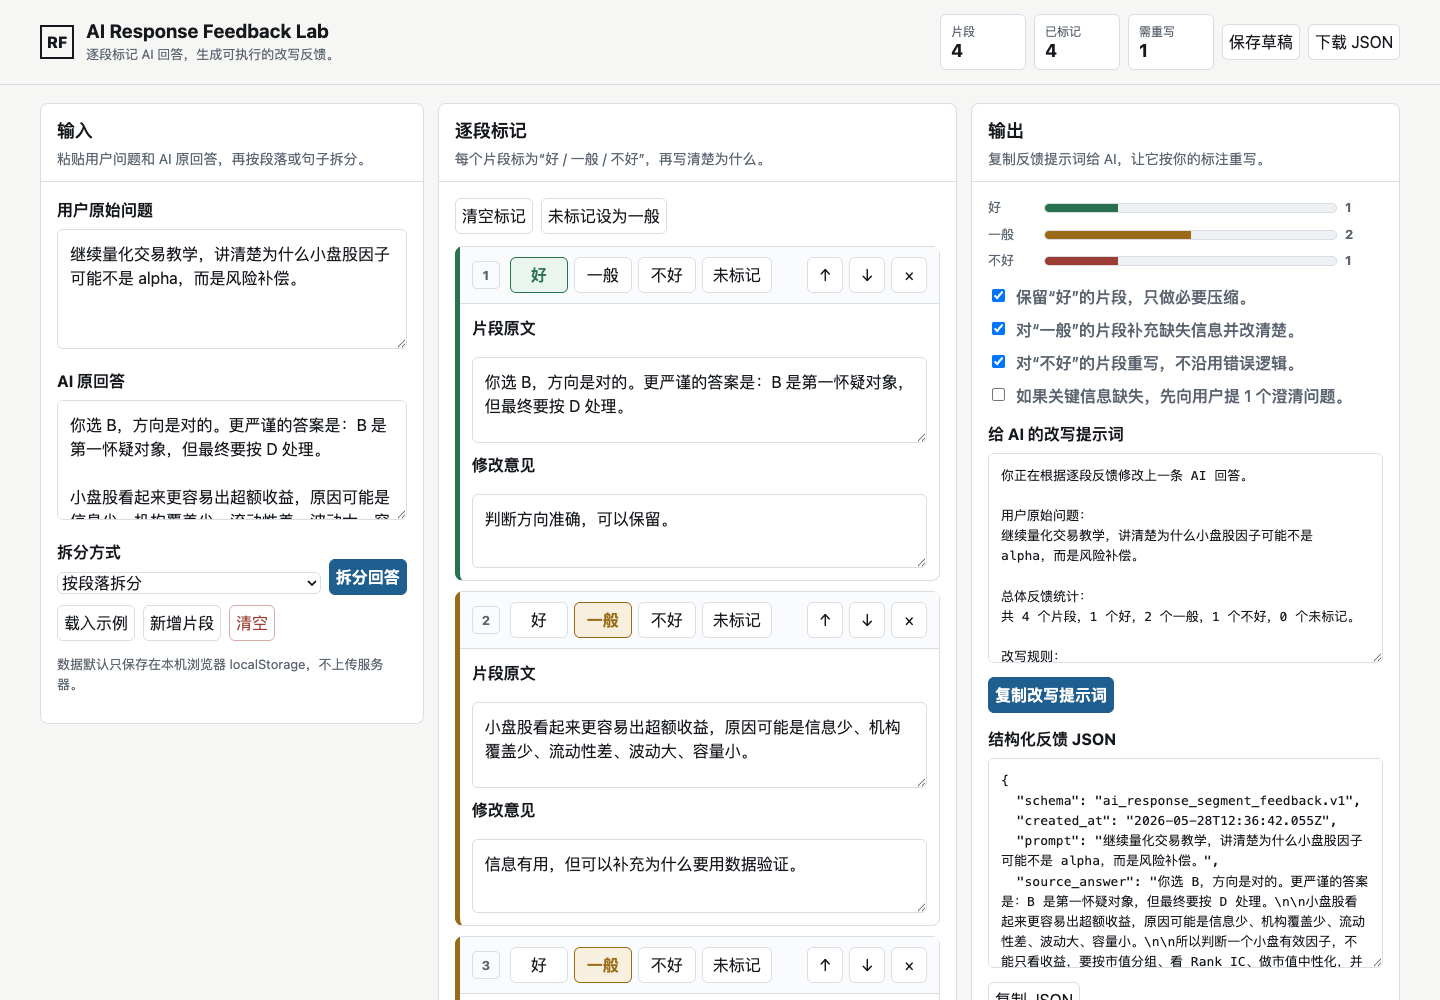
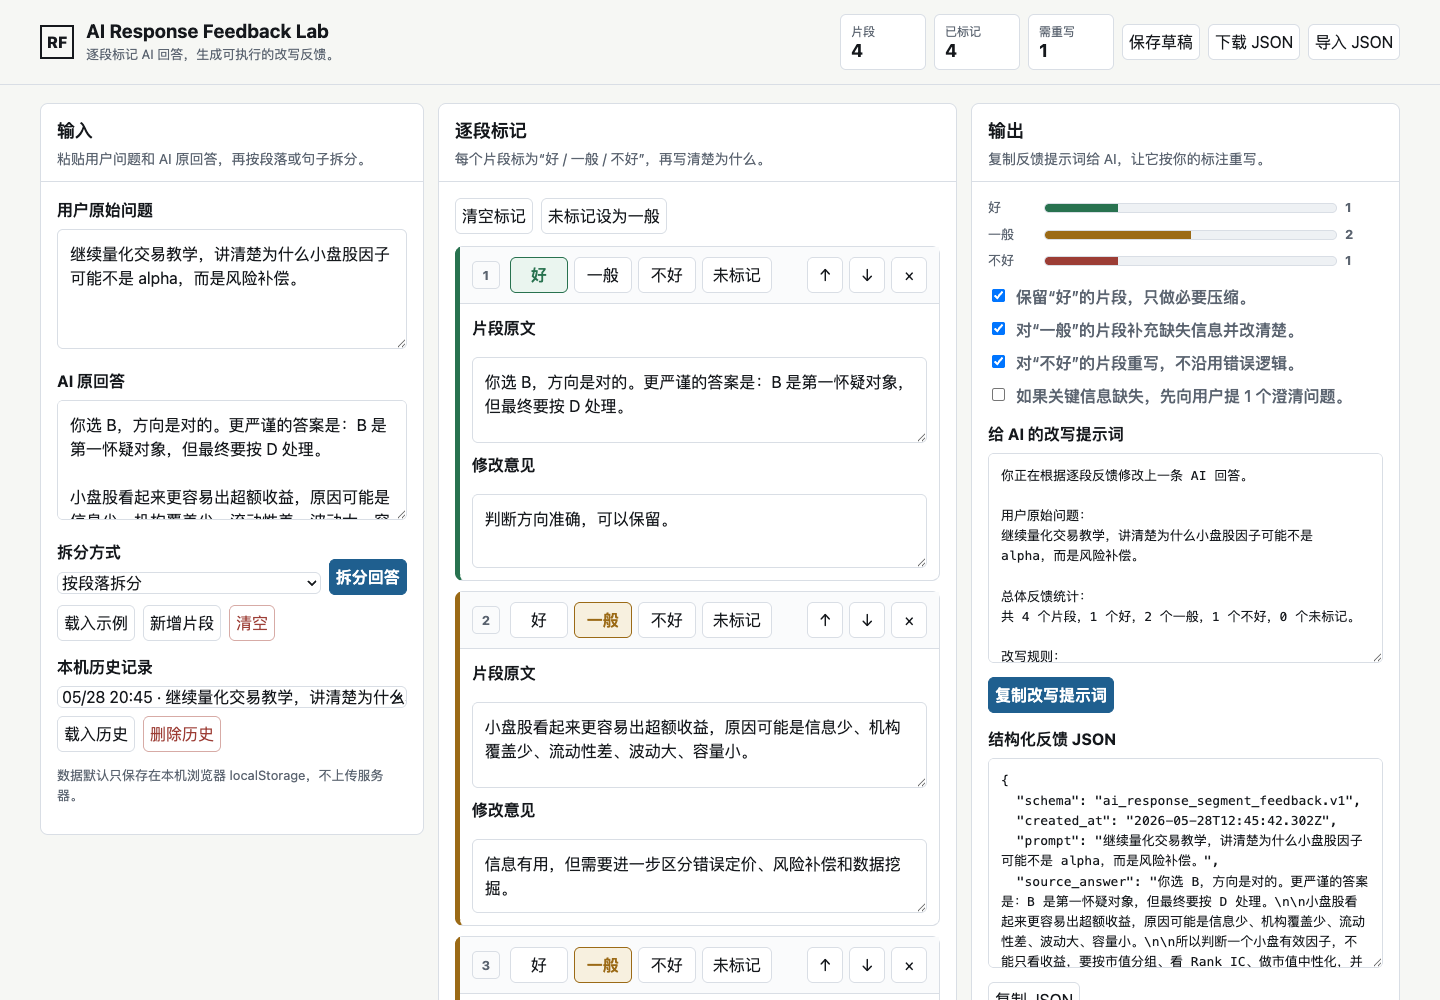
Add JSON import and local history

diff --git a/index.html b/index.html
@@ -542,6 +542,8 @@
         </div>
         <button id="saveButton" type="button">保存草稿</button>
         <button id="exportButton" type="button">下载 JSON</button>
+        <button id="importButton" type="button">导入 JSON</button>
+        <input id="importFileInput" type="file" accept="application/json,.json" hidden />
       </div>
     </header>
 
@@ -575,6 +577,16 @@
               <button id="sampleButton" type="button">载入示例</button>
               <button id="addSegmentButton" type="button">新增片段</button>
               <button id="clearButton" class="danger" type="button">清空</button>
+            </div>
+            <div class="field" style="margin-top: 14px">
+              <label for="historySelect">本机历史记录</label>
+              <div class="row">
+                <select id="historySelect">
+                  <option value="">暂无历史记录</option>
+                </select>
+                <button id="loadHistoryButton" type="button">载入历史</button>
+                <button id="deleteHistoryButton" class="danger" type="button">删除历史</button>
+              </div>
             </div>
             <p class="footer-note">数据默认只保存在本机浏览器 localStorage，不上传服务器。</p>
           </div>
@@ -649,6 +661,7 @@
 
     <script>
       const STORAGE_KEY = "ai-response-feedback-lab:v1";
+      const HISTORY_KEY = "ai-response-feedback-lab:history:v1";
 
       const sample = {
         prompt:
@@ -686,6 +699,11 @@
         copyJsonButton: document.querySelector("#copyJsonButton"),
         exportButton: document.querySelector("#exportButton"),
         saveButton: document.querySelector("#saveButton"),
+        importButton: document.querySelector("#importButton"),
+        importFileInput: document.querySelector("#importFileInput"),
+        historySelect: document.querySelector("#historySelect"),
+        loadHistoryButton: document.querySelector("#loadHistoryButton"),
+        deleteHistoryButton: document.querySelector("#deleteHistoryButton"),
         toast: document.querySelector("#toast"),
         metricTotal: document.querySelector("#metricTotal"),
         metricRated: document.querySelector("#metricRated"),
@@ -833,6 +851,157 @@
         };
       }
 
+      function currentRules() {
+        return {
+          keepGood: el.ruleKeepGood.checked,
+          improveOk: el.ruleImproveOk.checked,
+          replaceBad: el.ruleReplaceBad.checked,
+          askIfNeeded: el.ruleAskIfNeeded.checked
+        };
+      }
+
+      function stateToDraft() {
+        return {
+          schema: "ai_response_segment_feedback.draft.v1",
+          saved_at: new Date().toISOString(),
+          prompt: state.prompt,
+          answer: state.answer,
+          source_answer: state.answer,
+          splitMode: state.splitMode,
+          split_mode: state.splitMode,
+          segments: state.segments.map((segment, index) => ({
+            id: segment.id || uid(),
+            index: index + 1,
+            text: segment.text || "",
+            rating: segment.rating || "unrated",
+            note: segment.note || ""
+          })),
+          rules: currentRules()
+        };
+      }
+
+      function applyDraft(draft) {
+        const sourceAnswer = draft.source_answer ?? draft.answer ?? "";
+        state.prompt = draft.prompt || "";
+        state.answer = sourceAnswer;
+        state.splitMode = draft.split_mode || draft.splitMode || "paragraph";
+        state.segments = Array.isArray(draft.segments)
+          ? draft.segments.map((segment) => ({
+              id: segment.id || uid(),
+              text: segment.text || "",
+              rating: ["good", "ok", "bad", "unrated"].includes(segment.rating)
+                ? segment.rating
+                : "unrated",
+              note: segment.note || ""
+            }))
+          : [];
+
+        el.promptInput.value = state.prompt;
+        el.answerInput.value = state.answer;
+        el.splitMode.value = state.splitMode;
+
+        if (draft.rules) {
+          el.ruleKeepGood.checked = draft.rules.keepGood !== false;
+          el.ruleImproveOk.checked = draft.rules.improveOk !== false;
+          el.ruleReplaceBad.checked = draft.rules.replaceBad !== false;
+          el.ruleAskIfNeeded.checked = Boolean(draft.rules.askIfNeeded);
+        }
+      }
+
+      function historyTitle(draft) {
+        const base = (draft.prompt || draft.source_answer || draft.answer || "未命名反馈")
+          .replace(/\s+/g, " ")
+          .trim();
+        return base.length > 42 ? `${base.slice(0, 42)}...` : base;
+      }
+
+      function loadHistoryItems() {
+        try {
+          const raw = localStorage.getItem(HISTORY_KEY);
+          const items = raw ? JSON.parse(raw) : [];
+          return Array.isArray(items) ? items : [];
+        } catch {
+          return [];
+        }
+      }
+
+      function saveHistoryItems(items) {
+        localStorage.setItem(HISTORY_KEY, JSON.stringify(items.slice(0, 30)));
+      }
+
+      function renderHistory() {
+        const selected = el.historySelect.value;
+        const items = loadHistoryItems();
+        el.historySelect.innerHTML = "";
+        if (!items.length) {
+          const option = document.createElement("option");
+          option.value = "";
+          option.textContent = "暂无历史记录";
+          el.historySelect.append(option);
+          return;
+        }
+        items.forEach((item) => {
+          const option = document.createElement("option");
+          option.value = item.id;
+          const day = new Date(item.saved_at).toLocaleString("zh-CN", {
+            month: "2-digit",
+            day: "2-digit",
+            hour: "2-digit",
+            minute: "2-digit"
+          });
+          option.textContent = `${day} · ${item.title}`;
+          el.historySelect.append(option);
+        });
+        if (selected && items.some((item) => item.id === selected)) {
+          el.historySelect.value = selected;
+        }
+      }
+
+      function saveCurrentToHistory() {
+        syncInputsToState();
+        const draft = stateToDraft();
+        if (!draft.prompt.trim() && !draft.source_answer.trim() && !draft.segments.length) {
+          showToast("没有可保存的内容");
+          return;
+        }
+        const item = {
+          id: uid(),
+          saved_at: draft.saved_at,
+          title: historyTitle(draft),
+          draft
+        };
+        const items = loadHistoryItems();
+        saveHistoryItems([item, ...items]);
+        saveSilent();
+        renderHistory();
+        el.historySelect.value = item.id;
+        showToast("已保存到本机历史记录");
+      }
+
+      function loadSelectedHistory() {
+        const id = el.historySelect.value;
+        const item = loadHistoryItems().find((entry) => entry.id === id);
+        if (!item) {
+          showToast("没有选中的历史记录");
+          return;
+        }
+        applyDraft(item.draft);
+        update();
+        showToast("历史记录已载入");
+      }
+
+      function deleteSelectedHistory() {
+        const id = el.historySelect.value;
+        if (!id) {
+          showToast("没有选中的历史记录");
+          return;
+        }
+        const items = loadHistoryItems().filter((entry) => entry.id !== id);
+        saveHistoryItems(items);
+        renderHistory();
+        showToast("历史记录已删除");
+      }
+
       function renderMetrics() {
         const c = counts();
         const total = Math.max(c.total, 1);
@@ -962,19 +1131,7 @@
       }
 
       function saveSilent() {
-        const payload = {
-          prompt: state.prompt,
-          answer: state.answer,
-          splitMode: state.splitMode,
-          segments: state.segments,
-          rules: {
-            keepGood: el.ruleKeepGood.checked,
-            improveOk: el.ruleImproveOk.checked,
-            replaceBad: el.ruleReplaceBad.checked,
-            askIfNeeded: el.ruleAskIfNeeded.checked
-          }
-        };
-        localStorage.setItem(STORAGE_KEY, JSON.stringify(payload));
+        localStorage.setItem(STORAGE_KEY, JSON.stringify(stateToDraft()));
       }
 
       function loadSaved() {
@@ -982,19 +1139,7 @@
         if (!raw) return false;
         try {
           const saved = JSON.parse(raw);
-          state.prompt = saved.prompt || "";
-          state.answer = saved.answer || "";
-          state.splitMode = saved.splitMode || "paragraph";
-          state.segments = Array.isArray(saved.segments) ? saved.segments : [];
-          el.promptInput.value = state.prompt;
-          el.answerInput.value = state.answer;
-          el.splitMode.value = state.splitMode;
-          if (saved.rules) {
-            el.ruleKeepGood.checked = saved.rules.keepGood !== false;
-            el.ruleImproveOk.checked = saved.rules.improveOk !== false;
-            el.ruleReplaceBad.checked = saved.rules.replaceBad !== false;
-            el.ruleAskIfNeeded.checked = Boolean(saved.rules.askIfNeeded);
-          }
+          applyDraft(saved);
           return true;
         } catch {
           return false;
@@ -1042,6 +1187,28 @@
         link.click();
         link.remove();
         URL.revokeObjectURL(url);
+      }
+
+      function importJsonFile(file) {
+        if (!file) return;
+        const reader = new FileReader();
+        reader.addEventListener("load", () => {
+          try {
+            const payload = JSON.parse(String(reader.result || "{}"));
+            applyDraft(payload);
+            update();
+            showToast("JSON 已导入");
+          } catch {
+            showToast("导入失败：不是有效 JSON");
+          } finally {
+            el.importFileInput.value = "";
+          }
+        });
+        reader.addEventListener("error", () => {
+          showToast("导入失败：无法读取文件");
+          el.importFileInput.value = "";
+        });
+        reader.readAsText(file);
       }
 
       el.promptInput.addEventListener("input", update);
@@ -1119,13 +1286,20 @@
       });
 
       el.exportButton.addEventListener("click", downloadJson);
-      el.saveButton.addEventListener("click", () => {
-        syncInputsToState();
-        saveSilent();
-        showToast("草稿已保存到本机浏览器");
+      el.importButton.addEventListener("click", () => {
+        el.importFileInput.click();
       });
+      el.importFileInput.addEventListener("change", () => {
+        importJsonFile(el.importFileInput.files[0]);
+      });
+      el.saveButton.addEventListener("click", () => {
+        saveCurrentToHistory();
+      });
+      el.loadHistoryButton.addEventListener("click", loadSelectedHistory);
+      el.deleteHistoryButton.addEventListener("click", deleteSelectedHistory);
 
       loadSaved();
+      renderHistory();
       update();
     </script>
   </body>

diff --git a/README.md b/README.md
@@ -41,7 +41,8 @@ The current version is a static web app:
 - add notes for each segment,
 - generate a revision prompt,
 - export structured JSON,
-- store drafts locally in browser localStorage.
+- import structured JSON,
+- store drafts and named history locally in browser localStorage.
 
 No backend is required. No API key is required.
 
@@ -99,7 +100,6 @@ The exported JSON uses this rough schema:
 
 Short-term:
 
-- add import JSON,
 - add keyboard shortcuts,
 - add side-by-side original and revised answers,
 - add browser extension mode for ChatGPT / Claude / Gemini pages,
